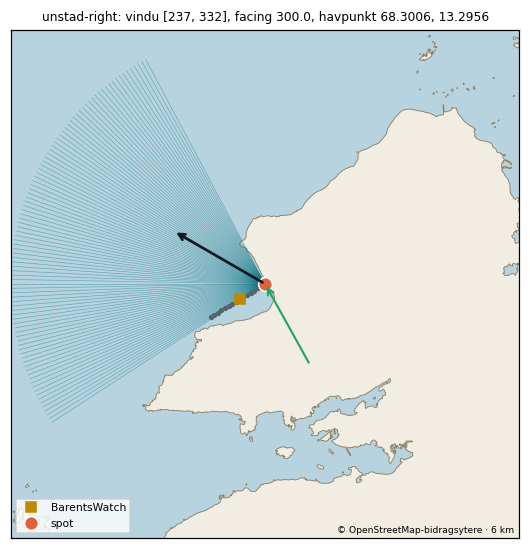
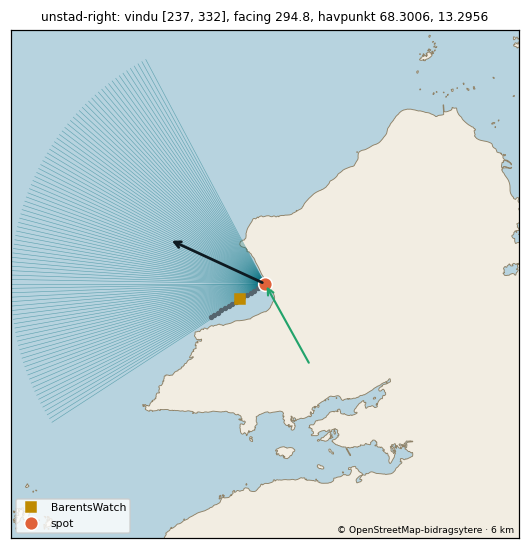
#22 kontrollør andre runde: Unstad-bukta får Unstads facing 294,8, soppelplassen offshore [70,209], og de tre holdes tilbake (enabled false) til Unstads punkt er avgjort (ROADMAP N)
synk_spot.py: --hold-tilbake, sjekker at bare de navngitte feltene endres, og nevner felt som mangler i bygget-fila.

diff --git a/tools/synk_spot.py b/tools/synk_spot.py
@@ -3,7 +3,11 @@
 bare de navngitte feltene byttes ut som tekst inne i spotens egen blokk; resten av fila sjekkes uendret etterpå.
 Bare spots med status «forelopig» kan synkes - de kalibrerte spotene røres aldri herfra.
 
-  python tools/synk_spot.py <id> facing offshore_wind barentswatch_point [_rettet] [--tørr]"""
+  python tools/synk_spot.py <id> facing offshore_wind barentswatch_point [_rettet] [--hold-tilbake "<grunn>"] [--tørr]
+
+--hold-tilbake: setter enabled false (spoten hentes og publiseres ikke) med grunnen i «_holdt_tilbake».
+Kontrollør 16.10: feltene som ikke finnes i bygget-fila nevnes (ikke hoppet over i det stille), og spoten selv
+sjekkes for at bare de navngitte feltene (og notatfeltene deres) er endret."""
 import json
 import re
 import sys
@@ -39,8 +43,15 @@ def set_field(blk, key, val):
     return blk[:start] + fmt(val) + blk[end:]
 
 
+def opt_hold():
+    a = sys.argv
+    return next((a[i + 1] for i, x in enumerate(a) if x == "--hold-tilbake" and i + 1 < len(a)), None)
+
+
 def main():
-    sid, fields = sys.argv[1], [a for a in sys.argv[2:] if not a.startswith("--")]
+    hold = opt_hold()
+    sid = sys.argv[1]
+    fields = [a for a in sys.argv[2:] if not a.startswith("--") and a != hold]
     s = json.loads((BYGGET / f"{sid}.json").read_text(encoding="utf-8"))["spot"]
     text = SPOTS.read_text(encoding="utf-8")
     cur = next(x for x in json.loads(text)["spots"] if x["id"] == sid)
@@ -48,10 +59,18 @@ def main():
         sys.exit(f"{sid} har status {cur.get('status')!r} - bare foreløpige spots synkes herfra")
     a, b = block(text, sid)
     blk = text[a:b]
+    allowed = set()
     for f in fields:
+        if f not in s:
+            print(f"{sid}: feltet {f} finnes ikke i bygget-fila - ikke endret")
         for k in (f, NOTER.get(f)):
             if k and k in s:
                 blk = set_field(blk, k, s[k])
+                allowed.add(k)
+    if opt_hold():
+        blk = set_field(blk, "enabled", False)
+        blk = set_field(blk, "_holdt_tilbake", opt_hold())
+        allowed |= {"enabled", "_holdt_tilbake"}
     new = text[:a] + blk + text[b:]
     after = json.loads(new)
     before = json.loads(text)
@@ -59,6 +78,7 @@ def main():
     assert {k: v for k, v in after.items() if k != "spots"} == {k: v for k, v in before.items() if k != "spots"}
     ny = next(x for x in after["spots"] if x["id"] == sid)
     diff = {k: (cur.get(k), ny.get(k)) for k in set(cur) | set(ny) if cur.get(k) != ny.get(k)}
+    assert set(diff) <= allowed, f"andre felt enn de navngitte ble endret: {sorted(set(diff) - allowed)}"
     for k, (o, n) in sorted(diff.items()):
         print(f"{sid}.{k}: {json.dumps(o, ensure_ascii=False)[:120]} → {json.dumps(n, ensure_ascii=False)[:120]}")
     if "--tørr" not in sys.argv:
